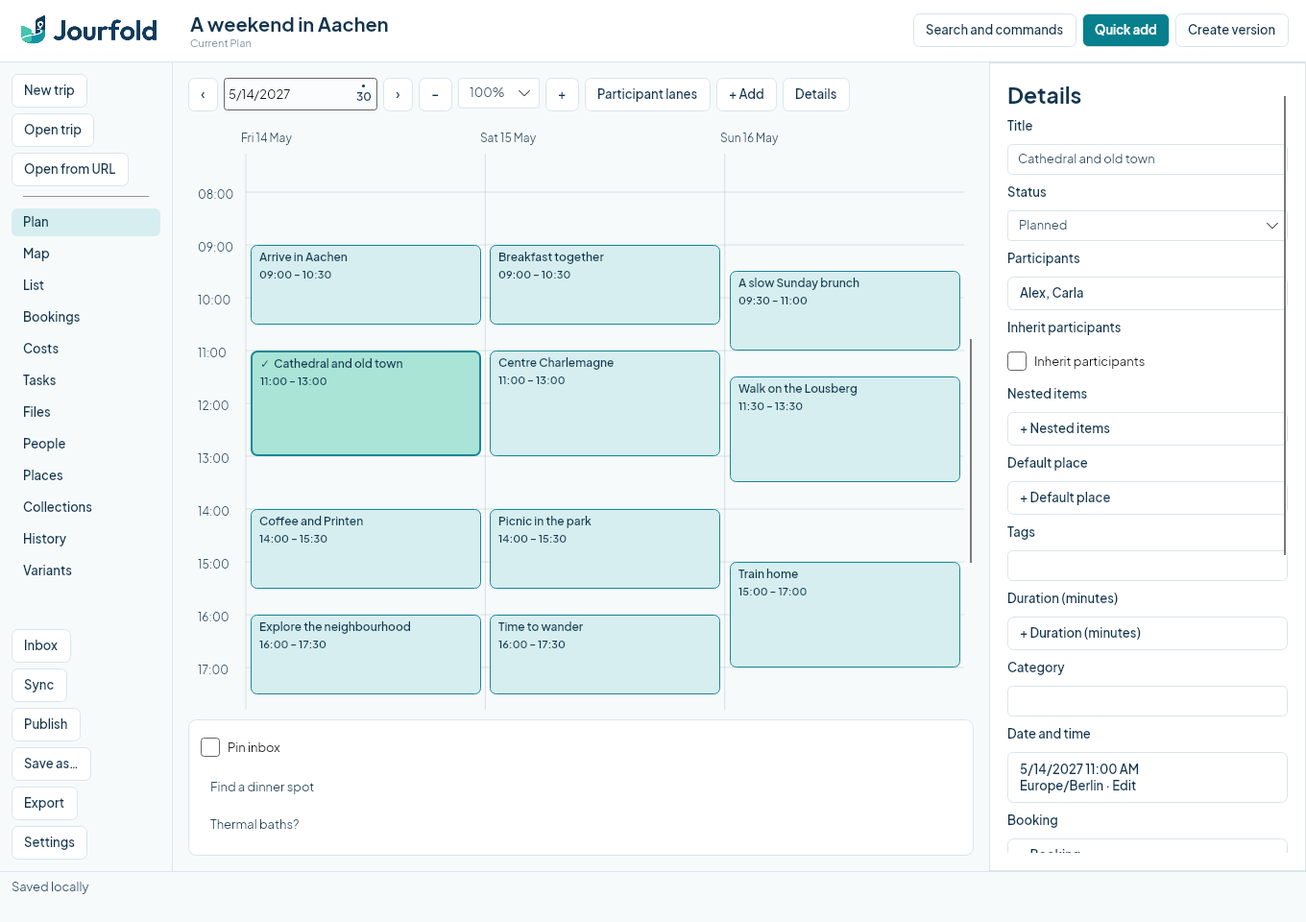
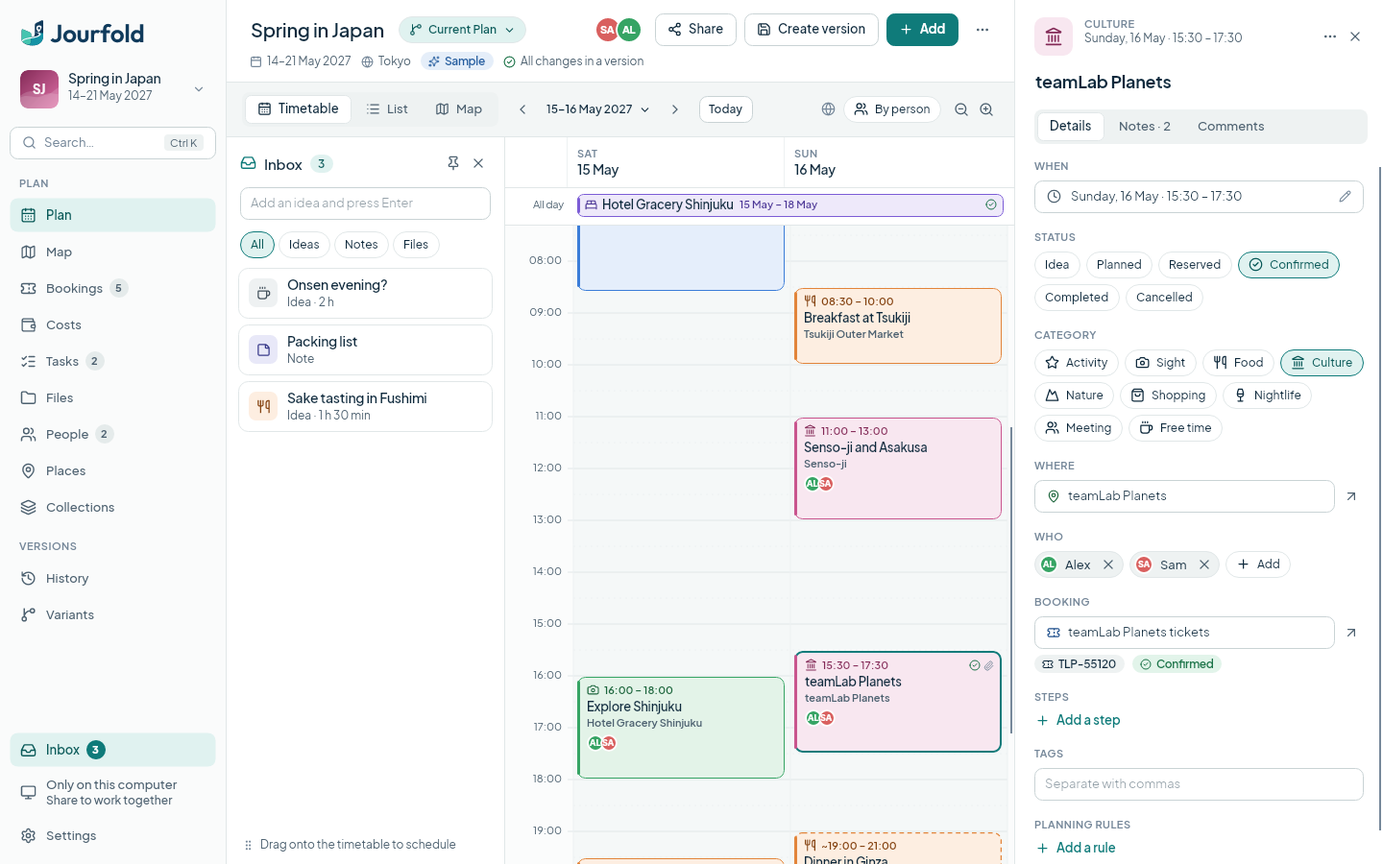
Document the redesigned interface and refresh README screenshots
Claude-Session: https://claude.ai/code/session_01EKe3mwT2vL34shtfNwVCKM

diff --git a/src/Jourfold.Desktop/Views/LibraryView.cs b/src/Jourfold.Desktop/Views/LibraryView.cs
@@ -133,11 +133,12 @@ public static class LibraryView
             {
                 var (start, end) = TripQueries.EffectiveDates(data.Trip);
                 dates.Text = Formats.DateRange(start, end) is { Length: > 0 } range ? range : s["NoDatesYet"];
-                places.Text = string.Join(" · ", TripSummaries.PlaceNames(data.Trip, 3)) is { Length: > 0 } names ? names : string.Format(s["ItemsCount"], data.Trip.Entities.Values.Count(e => e.Type == "schedule_item"));
+                var planned = data.Trip.Entities.Values.Count(e => e.Type == "schedule_item");
+                places.Text = string.Join(" · ", TripSummaries.PlaceNames(data.Trip, 3)) is { Length: > 0 } names ? names : planned == 0 ? s["NothingPlannedYet"] : string.Format(s["ItemsCount"], planned);
                 title.Text = data.Trip.Manifest.Title;
                 if (SidebarView.CoverImage(data.Repository, data.Trip) is { } image) { cover.Children.Clear(); cover.Children.Add(new Image { Source = image, Stretch = Stretch.UniformToFill, Height = 136 }); }
                 if (SampleTrip.IsSample(data.Trip)) cover.Children.Add(Ui.Pill(s["SampleTrip"], "sparkles", "Bg.Surface", "Text").Margin(12));
-                var people = data.Trip.Entities.Values.Where(e => e.Type == "person").Select(p => p.Title).ToArray();
+                var people = data.Trip.Entities.Values.Where(e => e.Type == "person").Select(p => p.Title).Order(StringComparer.CurrentCulture).ToArray();
                 if (people.Length > 0) cover.Children.Add(Ui.AvatarStack(people, 26).Also(a => { a.HorizontalAlignment = HorizontalAlignment.Right; a.VerticalAlignment = VerticalAlignment.Bottom; a.Margin = new Thickness(12); }));
             });
         }, TaskScheduler.Default);

diff --git a/eng/Screenshots/Program.cs b/eng/Screenshots/Program.cs
@@ -36,7 +36,6 @@ CultureInfo.DefaultThreadCurrentUICulture = CultureInfo.DefaultThreadCurrentCult
 try
 {
     // Synthetic sample data: real place names, invented times, bookings and prices.
-    Console.Error.WriteLine("creating sample");
     var start = new LocalDate(2027, 5, 14);
     var trip = Path.Combine(temporary, "Spring in Japan");
     await SampleTrip.CreateAsync(trip, new GitCliBackend(), start, "Alex", "alex@example.invalid", Path.Combine(temporary, "recovery"));
@@ -44,17 +43,13 @@ try
     var aachen = Entity.CreateTrip("Weekend in Aachen", "en", "Europe/Berlin"); aachen.Data["dates"] = new System.Text.Json.Nodes.JsonObject { ["start"] = "2027-09-17", ["end"] = "2027-09-19" };
     await second.InitializeAsync(aachen); await new GitRepository(second, new GitCliBackend()).InitializeAsync("Alex", "alex@example.invalid");
 
-    Console.Error.WriteLine("starting session");
     using var session = HeadlessUnitTestSession.StartNew(typeof(ScreenshotApplication));
     await session.Dispatch(async () =>
     {
-        Console.Error.WriteLine("dispatch");
-        MainWindow window;
-        try { window = new MainWindow { Width = 1440, Height = 900 }; }
-        catch (Exception ex) { Console.Error.WriteLine(ex); throw; }
+        var window = new MainWindow { Width = 1440, Height = 900 };
         try
         {
-            Console.Error.WriteLine("show"); window.Show(); Console.Error.WriteLine("shown");
+            window.Show();
             var m = window.Model;
             m.Store.Set("identity.name", "Alex"); m.Store.Set("identity.email", "alex@example.invalid");
             if (language == "de") m.SetPreference("Language", "de");

diff --git a/src/Jourfold.Desktop/Views/ShellViews.cs b/src/Jourfold.Desktop/Views/ShellViews.cs
@@ -174,7 +174,7 @@ public static class HeaderView
             save);
         var left = Ui.H(10, titleButton, variant);
 
-        var people = trip.Entities.Values.Where(e => e.Type == "person").Select(p => p.Title).ToArray();
+        var people = trip.Entities.Values.Where(e => e.Type == "person").Select(p => p.Title).Order(StringComparer.CurrentCulture).ToArray();
         var avatars = new Button { Content = people.Length > 0 ? Ui.AvatarStack(people, 28) : Ui.Icon("user-plus", 16), Padding = new Thickness(4) }.Classed("ghost").Named(people.Length > 0 ? string.Join(", ", people) : s["AddPeople"]);
         avatars.Click += (_, _) => m.Navigate("People");
 

diff --git a/docs/user-guide.md b/docs/user-guide.md
@@ -1,45 +1,76 @@
-# Planning a trip
+# Using Jourfold
 
-Choose **New trip**, enter a title, and select an empty folder for the plan and its history. Optional dates use calendar pickers; content language and timezone have searchable choices. The participant list starts empty. Use **Add participant**, enter a name and choose Save or Cancel. The trip stays on your computer until you add a remote or publish it. Optional trip settings are available by selecting **Details** beside the planning controls.
+## Your trips
 
-Use **Quick add** to create an activity, transport, accommodation, task, note, booking, place, person, expense or collection. Changes in the inspector are written when you leave a field. Use **Undo** and **Redo** through Ctrl+Z and Ctrl+Shift+Z. Changes made outside Jourfold invalidate undo history and show a notice.
+Jourfold opens with your trip library. Each card shows the dates, the main places and whether the trip is only on this computer or shared. Right-click a card to show its folder or remove it from the list; removing a card never deletes the trip.
 
-Unscheduled activities appear in **Inbox**. Drag one onto the timetable or use **Date and time** in its inspector. A block can be moved by dragging and resized by dragging its lower edge. Exact times use the timezone shown beside them. The date/time form uses calendar and time pickers and lets you review both endpoints together. Repeated daylight-saving times offer a choice of UTC offsets; nonexistent times show an explanation.
+If you are new, choose **Explore a sample trip**. It creates "Spring in Japan" in your trips folder, clearly marked as a sample. Change it freely or delete the folder when you are done.
 
-**Create version** records a named checkpoint. Review the change summary and edit the suggested message. Use **Variants** to try another plan, compare changes and merge it back. Create a version before switching variants. Merged variants remain archived.
+**New trip** asks for a title and nothing else. The optional steps add dates, the main timezone, your name and travel companions, and where the folder is saved. **Create now** skips the rest. The default folder is `Documents/Jourfold`; change it in Settings under General.
 
-**Files** attaches and previews image documents. Other files can be opened in the operating system's viewer. Large attachments require confirmation. **Export** creates PDF, calendar or print-friendly HTML output.
+**Open** also opens an existing trip folder, a trip someone shared as a Git address, or trips from your GitHub account.
 
-**Map** shows locally stored coordinates and transport connections. Add coordinates to a place to include it. It works without a map service or API key.
+## Planning
 
-Ctrl+K searches trip content and commands. **Settings** contains language, theme, density, units, local identity, provider connection and diagnostics. English and German affect the interface; trip content is not translated.
+The sidebar switches between the parts of a trip. **Plan** shows the timetable. The buttons above it switch to the day-by-day **List** or the **Map**.
 
-A copied repository address does not grant another person access. GitHub invitations require permission to manage that repository. New GitHub repositories are private by default.
+- **Add** (Ctrl+N) opens Quick Add. Pick a type, give it a title and, if you like, a place, date and time. Typing a place name that does not exist yet creates it.
+- Drag across empty time in the timetable to add an activity for exactly that span. Double-click empty time for a one-hour activity.
+- Drag a block to move it, or drag its lower edge to change how long it takes. Alt+Up and Alt+Down move the focused block by 15 minutes.
+- Right-click a block to change its time, duplicate it, move it back to the Inbox or delete it.
+- **By person** shows one column per traveller. Shared plans appear in each person's column.
 
-This build is under acceptance validation. Consult `docs/acceptance.md` for remaining limitations before using it as a release.
+Colours and icons show what kind of plan an item is: transport, a stay, food, a sight, culture, nature and so on. Dashed outlines mean the time is not fixed: an idea, an approximate time or a part of the day. A check mark means the plan is confirmed; a warning triangle means something needs a look, such as two overlapping plans for the same person.
 
-## People, material and comparisons
+Hotel stays and all-day plans appear in the strip above the hours. Times are shown in the trip's main timezone. Items in another timezone also show their local time, for example the departure time of a flight.
 
-In People, **Add myself to this trip** creates or reuses a trip-local person from your local name/email template. Repeating the action maps to the same Git email within the trip. This does not create an online account.
+### The Inbox
 
-The Inbox contains unscheduled activities and unlinked notes/documents. Pin keeps it open across sessions. Drag a note or file into the plan to create a scheduled activity linked to that material. The original note/file remains intact. **Schedule in plan** in the inspector provides the keyboard equivalent. Use the time fields or precision action to change timing without dragging.
+The **Inbox** collects things without a time: ideas, notes and files you have not attached anywhere. Type an idea into the box at the top and press Enter. Drag an entry onto the timetable to schedule it. **Pin** keeps the Inbox open. Ctrl+I toggles it.
 
-In Variants, **Compare** opens a timetable comparison and a separate side-by-side detail view. The timetable uses the current trip's timezone for both plans. Changed Markdown and binary choices are included in the details. **Share variant** copies a clone link with the branch context; the recipient still needs server access, and the branch must have been pushed.
+### Details
 
-Markdown sections can be added, edited and removed in the inspector. Document import, document replacement and Markdown edits participate in local Undo/Redo. Image previews are local. PDFs and other supported files can be opened with the operating system's default application.
+Selecting anything opens the details panel on the right. Changes are saved as soon as you leave a field. Everything can be undone with Ctrl+Z and redone with Ctrl+Shift+Z.
 
-History shows the author and application activity. Expand Details for semantic changes. Advanced Mode adds hashes, refs, author/committer identities, trailers and parent information. Restoring a version shows the files that will change and leaves the restored content as local changes, ready for a new version.
+- **When** opens the time editor. Besides exact times you can choose an approximate time, a time window, a part of the day, all day, or no time yet. Daylight-saving gaps are explained; repeated hours ask which one you mean.
+- **Status**, **Category** and **Who** are one click each.
+- Transport has a mode, from and to places, carrier, number, seat, terminal and distance. Stays have check-in and check-out, guests and rooms.
+- **Steps** groups several items, such as the parts of a day trip. Steps can share the group's people.
+- **Notes** holds Markdown notes, links, attached files and links to other items.
+- **Comments** lets travel companions leave remarks under their own name.
 
-## Readability
+Deleting shows a short notice with **Undo** instead of asking first.
 
-Settings includes high contrast and text scaling. Platform scaling and theme preferences are also respected. Text scaling can introduce scrollbars on small windows so controls remain reachable. The app uses no custom animated transitions. Keyboard focus and textual warnings do not depend on color alone.
+## Bookings, costs, tasks and files
 
-## Editing and local copies
+**Bookings** lists reservations with their reference (click the copy icon), price, travellers and status. **Costs** totals expenses per currency and compares them with budgets. Amounts are never converted with current exchange rates. **Tasks** works like a checklist; type a task and press Enter. **Files** shows attached tickets, PDFs and photos. Drop files anywhere on the window to add them.
 
-Each content view has an Add action in its toolbar. Quick add remains available for all entity types. In Plan, right-click an empty time slot to add an activity, or drag over an empty span to prefill its start and end. Right-click a block to remove it after confirmation. Zoom has minus/plus controls and a percentage list.
+## Versions, variants and sharing
 
-The participant editor shows available people on the left and assigned people on the right. Select people and use the arrows, then Save to apply the whole selection or Cancel to leave it unchanged.
+Your changes are saved on your computer immediately. The line under the trip title says whether they are already part of a **version**. **Create version** (Ctrl+S) records the current plan in the trip history with a suggested description that you can edit. **History** lists all versions, shows what changed and can restore an earlier one.
 
-**Save as…** copies the current repository to an empty folder and opens the copy. It includes current local edits, attachments, untracked files, history, variants, local Git settings and remotes. The original remains unchanged. Because remotes are copied too, the copy can still sync to the same remote. Linked Git worktrees, shared object stores and symbolic links are rejected with an explanation rather than copied incompletely.
+A **variant** is an alternative plan, for example "Cheaper hotels". Use the variant button next to the title to switch, or **Variants** to create, compare and merge them. Comparison shows the two plans day by day. When both changed the same detail, Jourfold asks once which result to keep.
 
-Settings has a category sidebar. General and Appearance controls apply when changed. Identity stores your local name/email template. GitHub connection and discovery are under Connections. Application forms stay inside the main window; file and folder selection uses the operating system's picker.
+**Share** depends on where the trip lives:
+
+- On this computer only: publish to a new private GitHub repository, or connect any Git server.
+- On GitHub: invite people by username and copy an invitation link.
+- On another Git server: copy an invitation link. The other person needs access on that server; a link does not grant it.
+
+Shared trips sync in the background. Changes that fit together are merged after a short notice that offers **Review** and **Cancel**.
+
+## Search and keyboard
+
+Ctrl+K opens search and commands. It finds items in the trip and runs actions such as creating a version or switching views. Alt+1 to Alt+9 jump between the main sections. Escape closes the details panel or a dialog. All buttons and fields are reachable with Tab.
+
+## Settings and privacy
+
+Settings covers language (English and German), theme, density, text size, high contrast, units, your name for versions, the folder for new trips, online maps, GitHub and plugins. **Advanced mode** adds Git branch names, commit details and the stored data of each item.
+
+Online maps are off until you enable them. When on, Jourfold loads map images for the area you look at and sends the address searches you start to OpenStreetMap. Your trip data is never sent. Jourfold has no analytics and sends nothing automatically. **Report a problem** prepares a text you can review and copy.
+
+## Exporting
+
+The menu next to **Add** has **Export**: a day-by-day PDF, a calendar file for other calendar apps, or a web page for printing.
+
+This build is under acceptance validation; see [acceptance status](acceptance.md) for remaining limitations.

diff --git a/README.md b/README.md
@@ -1,28 +1,36 @@
 # Jourfold
 
-A local travel planner built with Avalonia and the TravelRepo SDK. GPL-3.0-or-later. Trip files remain ordinary Git repositories and can be used independently of Jourfold.
+A desktop travel planner for Windows and Linux, built with Avalonia on the open TravelRepo format. Every trip is an ordinary folder with readable YAML files and full Git history, so it stays usable with or without Jourfold. GPL-3.0-or-later.
 
-## Screenshots
+![Jourfold timetable with the Inbox open and an activity selected in the inspector](docs/screenshots/planning-light.png)
 
-The planning view with a synthetic weekend itinerary, unscheduled ideas in the Inbox, and the selected activity's details.
+## What it does
 
-![Jourfold in Light theme: a three-day Aachen timetable, Inbox and activity inspector](docs/screenshots/planning-light.png)
+- **Plan days on a timetable.** Drag across the grid to add an activity, drag blocks to move them and their lower edge to change the duration. Stays and all-day plans sit in a strip above the grid. Times stay correct across timezones and daylight-saving changes.
+- **Collect ideas first.** The Inbox holds activities without a time, notes and files. Drag them onto the timetable when you know when.
+- **See the trip as a list or on a map.** The map works offline with coordinates you enter. A street map and address search from OpenStreetMap are available after you turn them on.
+- **Keep the details together.** Bookings with references and prices, costs per currency with budgets, tasks, files, people, places and collections.
+- **Try alternatives.** Variants let you plan a cheaper or slower version, compare it day by day and merge the parts you like. Conflicts are resolved in plain language.
+- **Record versions and share.** Create a version with a suggested description of what changed. Publish privately to GitHub or any Git server; Jourfold syncs in the background and merges compatible changes automatically.
+- **Export** a day-by-day PDF, a calendar file or a printable web page.
 
-The same itinerary in Dark theme.
+No account is needed and nothing leaves your computer unless you share a trip or turn on online maps. There are no analytics.
 
-![Jourfold in Dark theme showing the same timetable, Inbox and activity inspector](docs/screenshots/planning-dark.png)
+| Library | Dark theme |
+| --- | --- |
+| ![Trip library with cover cards and a sample trip](docs/screenshots/library.png) | ![The same timetable in the dark theme](docs/screenshots/planning-dark.png) |
 
-[Date/time editing and settings screenshots](docs/screenshots.md#forms).
+More captures, including the map, costs, Quick Add and settings, are in [docs/screenshots.md](docs/screenshots.md). They are taken from the real application with synthetic data.
 
-Captured from the actual application with Avalonia's headless renderer. [Refresh the screenshots](docs/screenshots.md).
+## Try it
 
-## Try the Linux build
+The Linux archive includes the .NET runtime. See [testing on another Linux PC](docs/try-linux.md). On first start, choose **Explore a sample trip** to look around, or **Plan a trip** to start your own.
 
-The portable archive includes the .NET runtime. See [testing on another Linux PC](docs/try-linux.md) for transfer, CachyOS/GNOME setup and a first test. GitHub is optional for local planning.
+The [user guide](docs/user-guide.md) explains the main workflows.
 
 ## Development
 
-Requires .NET SDK 10.0.401 and Git for development. Place TravelRepo at `../travelrepo` for workspace builds.
+Requires .NET SDK 10.0.401, Git and Python 3. Place TravelRepo at `../travelrepo` for workspace builds.
 
 ```sh
 dotnet build Jourfold.sln
@@ -30,6 +38,6 @@ dotnet test Jourfold.sln
 dotnet run --project src/Jourfold.Desktop
 ```
 
-See the [user guide](docs/user-guide.md), [build and test instructions](docs/development.md), [release smoke checklist](docs/release-smoke.md), [provider setup](docs/providers.md), and [plugin API](docs/plugins.md).
+See [build and test instructions](docs/development.md), [release smoke checklist](docs/release-smoke.md), [provider setup](docs/providers.md) and [plugin API](docs/plugins.md).
 
-This is an implementation build, not an accepted v1 release. [Acceptance status](docs/acceptance.md) records verification and remaining work. No analytics or automatic uploads are included.
+This is an implementation build, not an accepted v1 release. [Acceptance status](docs/acceptance.md) records what has been verified and what remains.

diff --git a/docs/screenshots.md b/docs/screenshots.md
@@ -1,8 +1,8 @@
-# README screenshots
+# Screenshots
 
-The README images show the real `App`, `MainWindow` and planning controls, rendered by Avalonia Headless with Skia. They are application captures without operating-system window decorations. They do not demonstrate native file dialogs, desktop integration or screen-reader behavior.
+These images are captures of the real `App` and `MainWindow`, rendered by Avalonia Headless with Skia. They have no operating-system window frame and do not show native file dialogs, popups, desktop integration or screen-reader behaviour.
 
-The capture tool creates a disposable TravelRepo containing a synthetic Aachen weekend for Alex and Carla. These are sample ideas, not bookings or travel recommendations. It opens that repository in Jourfold, selects an activity, opens the Inbox, scrolls to daytime hours and saves both themes. The fixture is confined to this documentation tool; it is not seeded into normal application sessions.
+The capture tool creates the same sample trip that **Explore a sample trip** offers in the application ("Spring in Japan", fixed to May 2027 for repeatable images) and an empty "Weekend in Aachen" trip. Place names are real; times, bookings, references and prices are invented. Everything is written to a temporary directory with its own settings and Git configuration and removed afterwards. No network service is contacted; the map shows the offline view with its opt-in prompt.
 
 ## Regenerate
 
@@ -13,14 +13,41 @@ dotnet restore eng/Screenshots/Screenshots.csproj --locked-mode
 dotnet run --project eng/Screenshots -c Release --no-restore -- docs/screenshots
 ```
 
-The tool writes `planning-light.png`, `planning-dark.png`, `settings.png` and `date-time.png` at 1360 × 960 pixels. It uses temporary trip/settings directories and process-local Git configuration. On Linux it isolates the session bus so it cannot use the desktop keyring. No GitHub App, login, remote repository or display server is needed. The temporary fixture is removed after capture.
+This writes the eight images below at 1440 × 900 pixels. Two options help when checking changes:
 
-Open both PNG files and check the timetable, selected activity, Inbox, text and theme before including them in a change. Commit the PNGs with the frontend change and update README captions if their meaning changes. Do not paint over, replace or fabricate interface elements in the captures.
+- `--all` adds every main view, dialogs (palette, schedule editor, share, Create Version, new trip), variants with comparison and conflict resolution, plus `itinerary.pdf` and `itinerary.html`. Use it with a scratch directory, not `docs/screenshots`.
+- `--lang de` captures the German interface.
 
-The standalone tool is not part of the solution's default test suite or CI. Its project and dependency lock are checked in so contributors can refresh the images locally. The current capture was verified on Ubuntu; native platform acceptance is recorded separately in [the acceptance matrix](acceptance.md).
+Open the images and check text, clipping, theme and selection before committing them. Do not edit or retouch captures.
 
-## Forms
+## Captures
 
-![Calendar, time and timezone controls in the date/time form](screenshots/date-time.png)
+The timetable with the Inbox and the inspector, in light and dark themes:
 
-![Settings categories and directly editable preferences](screenshots/settings.png)
+![Timetable for a sample trip to Japan with the Inbox open and an activity selected](screenshots/planning-light.png)
+
+![The same view in the dark theme](screenshots/planning-dark.png)
+
+The trip library:
+
+![Library with a sample trip, an empty trip and a card for creating a new one](screenshots/library.png)
+
+The day-by-day list:
+
+![List view grouped by day with times, places, people and status](screenshots/list.png)
+
+The map before online maps are enabled. Places and routes come from the trip's own coordinates:
+
+![Offline map with places, train and flight routes and the prompt to show a street map](screenshots/map.png)
+
+Costs per currency with budgets:
+
+![Costs page with totals for euros and yen, budget progress and the list of expenses](screenshots/costs.png)
+
+Quick Add:
+
+![Quick Add sheet with item types, title, place, date, time, duration and people](screenshots/quick-add.png)
+
+Settings:
+
+![Settings dialog with categories on the left and general preferences on the right](screenshots/settings.png)

diff --git a/docs/development.md b/docs/development.md
@@ -31,6 +31,19 @@ The 2026-09-30 live GitHub probes were run separately from `.tools/` in the boot
 
 To repeat live validation, follow [GitHub App setup](github-app-setup.md) and the [release smoke checklist](release-smoke.md) with a separately authorized account and disposable trip data. Each machine authorizes Jourfold independently. Any future automated live-service workflow needs explicit opt-in and dedicated credentials; it must not depend on a contributor's desktop session.
 
+## Interface structure
+
+`src/Jourfold.Desktop` is organised by role:
+
+- `Theme/` holds the design system. `Tokens.axaml` defines colours for light and dark (deep navy) themes, radii and the per-category schedule colours. `Controls.axaml` styles Fluent controls and defines the button, text and surface classes used everywhere. High contrast overrides the same token keys at window level.
+- `Theme/Icons.axaml` and `Theme/Brand.axaml` are generated. Icons come from [Lucide](https://lucide.dev) `lucide-static` 1.51.0 (ISC, see `licenses/lucide`): download the SVGs you need into a folder and run `python3 eng/icons.py <folder> src/Jourfold.Desktop/Theme/Icons.axaml`. Brand drawings are generated from the canonical SVGs with `python3 eng/brand.py assets/branding src/Jourfold.Desktop/Theme/Brand.axaml`.
+- `Controls/` contains the `Icon` control, the `Ui` factory used by code-built views, and inline `Editors` for the inspector.
+- `Views/` builds the shell, library, timetable, list, map, collection pages, history, variants and inspector from the view model. Views never pick colours directly; they reference tokens.
+- `Dialogs/` implements `IInteraction` with in-window sheets. Tests replace it with `TestInteraction`.
+- `MainViewModel*.cs` is split by concern: trips, editing, versions, sync and settings. Domain rules stay in TravelRepo; entity building for Quick Add and the sample trip live in `Jourfold.Application`.
+
+Strings live in `Strings/en.json` and `Strings/de.json`. Both files must have the same keys; a test checks parity.
+
 ## UI screenshots
 
 Run the standalone [screenshot capture tool](screenshots.md) after frontend changes. It uses a synthetic local trip and does not connect to GitHub. Screenshot capture is separate from the default test suite and CI.

diff --git a/docs/providers.md b/docs/providers.md
@@ -13,3 +13,15 @@ Inject `HttpClient` to test network boundaries. Live tests require a configured 
 GitHub documentation consulted: [GitHub App user tokens and device flow](https://docs.github.com/en/apps/creating-github-apps/authenticating-with-a-github-app/generating-a-user-access-token-for-a-github-app).
 
 For development validation, follow the [GitHub App registration walkthrough](github-app-setup.md).
+
+## Online maps and address search
+
+Jourfold's map works without any service: places are drawn from the coordinates stored in the trip. A street map and address search are optional and off until the user enables them, either from the prompt on the map or in Settings under Maps and places.
+
+When enabled:
+
+- Map images are loaded from `tile.openstreetmap.org` for the area being viewed, with an identifying User-Agent, at most two parallel requests, and a local cache kept for 14 days under the Jourfold data folder. Settings can clear the cache. The map shows the required OpenStreetMap attribution.
+- Address search sends the text the user submits to `nominatim.openstreetmap.org`, at most one request per second, and only when the user asks for it. Choosing a result creates or updates a place with its name, address, coordinates and OpenStreetMap ID.
+
+No trip data, names or identifiers are sent. Heavier use, or a deployment for many users, should point these requests at a self-hosted or commercial tile and geocoding service in line with the OpenStreetMap usage policies.
+

diff --git a/THIRD_PARTY_NOTICES.md b/THIRD_PARTY_NOTICES.md
@@ -18,3 +18,7 @@ The generated `licenses/dependencies.json` enumerates resolved packages and thei
 - Markdig: BSD-2-Clause, https://github.com/xoofx/markdig. Used for local CommonMark parsing; no remote content is executed.
 
 TravelRepo specifications and schemas copied into this repository retain their Apache-2.0 license. The full license is included as `licenses/TravelRepo-Apache-2.0.txt` in source and packages.
+
+- Lucide icons (lucide-static 1.51.0): ISC License, https://lucide.dev. The license is included as `licenses/lucide/LICENSE`. Icon outlines are converted into `src/Jourfold.Desktop/Theme/Icons.axaml`.
+- Map images and address search, when the user enables online maps, come from OpenStreetMap. Map data © OpenStreetMap contributors, available under the Open Database License (https://www.openstreetmap.org/copyright). No OpenStreetMap data is bundled.
+
